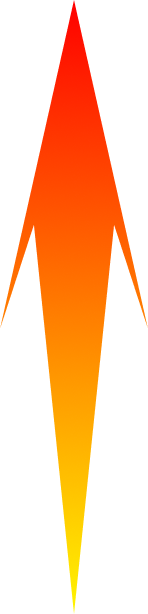
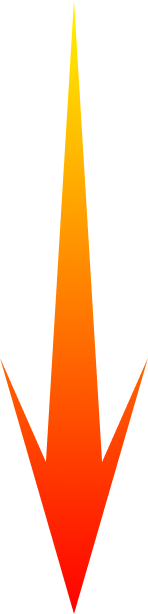
feat: added arrow when releasing

diff --git a/lib/game/alien.dart b/lib/game/alien.dart
@@ -11,6 +11,8 @@ class Alien extends BodyComponent with ContactCallbacks {
   final int playerIndex;
   final void Function() onHpChange;
 
+  late final SpriteComponent arrowSprite;
+
   late final Sprite sprite;
   double healthPoints = initialHealthPoints;
   bool isAttacking = false;
@@ -31,6 +33,12 @@ class Alien extends BodyComponent with ContactCallbacks {
   Future<void> onLoad() async {
     super.onLoad();
     final image = await Flame.images.load(getImagePath);
+    final arrowImage = await Flame.images.load('arrow.png');
+    arrowSprite = SpriteComponent(sprite: Sprite(arrowImage))
+      ..width = 7
+      ..anchor = Anchor.center
+      ..setAlpha(0);
+    add(arrowSprite);
     if (isMine) {
       add(MyAlienCircle());
     }
@@ -118,6 +126,7 @@ class Alien extends BodyComponent with ContactCallbacks {
 
   /// Released the alien to move in certain direction
   void release(Vector2 releaseVelocity) {
+    arrowSprite.setAlpha(0);
     body.linearVelocity = releaseVelocity;
     isAttacking = true;
     // add(Some());

diff --git a/lib/game/game.dart b/lib/game/game.dart
@@ -44,20 +44,25 @@ class MyGame extends Forge2DGame with HasCollisionDetection, PanDetector {
 
   @override
   void onPanStart(DragStartInfo info) {
-    _initialPanPosition = info.eventPosition.game;
     super.onPanStart(info);
+    _initialPanPosition = info.eventPosition.game;
+    _myAlien.arrowSprite.setAlpha(255);
   }
 
   @override
   void onPanUpdate(DragUpdateInfo info) {
-    _draggedDelta = info.eventPosition.game - _initialPanPosition;
     super.onPanUpdate(info);
+    _draggedDelta = info.eventPosition.game - _initialPanPosition;
+    print(_draggedDelta.length);
+    _myAlien.arrowSprite
+      ..height = _draggedDelta.length * 24 / 30
+      ..angle = _draggedDelta.screenAngle();
   }
 
   @override
   void onPanEnd(DragEndInfo info) {
-    _myAlien.release(-_draggedDelta * 3);
     super.onPanEnd(info);
+    _myAlien.release(-_draggedDelta * 3);
   }
 }
 
